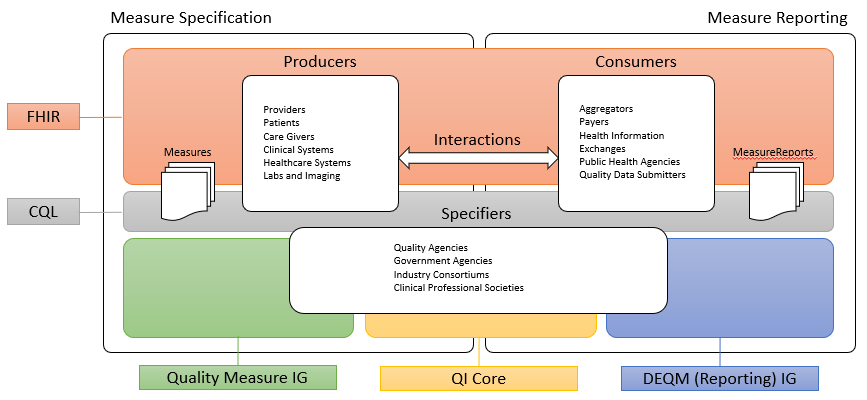
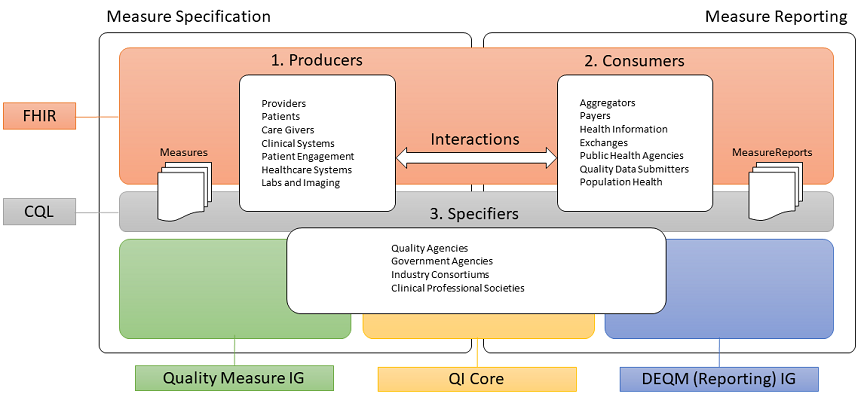
GF#21067, GF#21969, GF#20960, GF#21985, GF#21982 changes to common background section

diff --git a/source/pages/_includes/quality-measurement-standards-landscape.html b/source/pages/_includes/quality-measurement-standards-landscape.html
@@ -1,0 +1,142 @@
+<!--  source/pages/_includes/quality-measurement-standards-landscape.html -->
+
+<h3>Quality Measurement Standards Landscape</h3>
+
+<p>This implementation guide is part of a larger FHIR-based quality improvement
+and quality measurement standards landscape, depicted in the following
+diagram:</p>
+
+<div>
+<img src="assets/images/quality-measurement-standards-landscape.png"
+alt="Quality Measurement Standards Landscape" class="img-responsive img-rounded center-block"/>
+<p>Figure 2: The Quality Measurement Standards Landscape Diagram</p>
+</div>
+
+<p>The left side of the quality measurement standards landscape diagram depicts
+the activities and standards associated with measure specification, while the
+right side depicts measure reporting. Stakeholders and the roles they play are
+represented by the three rounded rectangles in the foreground. Note that the
+lists are representative of typical stakeholders, but that a single stakeholder
+may play any or all of the roles in this diagram. For example, an institution
+specifying its own measures for internal use would be the Producer, Consumer,
+and Specifier.</p>
+
+<p><b>Measure specification</b> involves the end product of the measure
+development process, a precisely specified, valid, reliable, and clinically
+significant measure specification to support accurate data representation and
+capture of quality measures. Clinical quality measures (CQMs) are tools that
+help measure and track the quality of health care services that eligible
+clinicians (ECs), eligible hospitals (EHs), and critical access hospitals (CAHs)
+provide. Measuring and reporting CQMs helps to ensure that our health care
+system is delivering effective, safe, efficient, patient-centered, equitable,
+and timely care. CQMs measure many aspects of patient care, including patient
+and family engagement, patient safety, care coordination, public health,
+population health management, efficient use of healthcare resources, and
+clinical process and effectiveness. For more information on the basics of
+Clinical Quality Measures, see <a
+href="https://www.cms.gov/Regulations-and-Guidance/Legislation/EHRIncentivePrograms/ClinicalQualityMeasures.html">Clinical
+Quality Measures Basics</a>. Before Electronic Health Record (EHR) systems,
+chart-abstracted CQMs were predominant. Modern EHR systems enable electronic
+CQMs, or eCQMs.</p>
+
+<p><b>Measure reporting</b> involves the data collection and aggregation,
+calculation and analytics, and ultimately reporting of quality measures. Measure
+reporting may be accomplished in different ways at various levels of the
+healthcare delivery system, from individual providers attesting to specific
+quality measures as part of federally-regulated healthcare quality initiatives,
+to provider organizations reporting to healthcare plans as part of payer quality
+improvement activities, to institutions reporting on the quality of their own
+healthcare delivery.</p>
+
+<p>Stakeholders in the quality space, represented by the three rounded
+rectangles in the foreground of the above diagram, fall into three broad
+categories:</p>
+
+<p><b>Data Producers</b> in the diagram represent the various stakeholders
+involved in the de novo creation of healthcare data. Date Producers can include
+providers and provider systems; patients, care teams, caregivers, and patient
+engagement systems; and other related clinical systems such as laboratory,
+clinic, and hospital information systems that are primary producers of patient
+healthcare information.</p>
+
+<p><b>Data Consumers</b> in the diagram represent the various stakeholders
+involved in the consumption and use of healthcare data. Data Consumers can
+include data routers and aggregators, payers, health information exchanges and
+health integrated networks, as well as public health and other
+healthcare-related agencies.</p>
+
+<p><b>Specifiers</b> in the diagram represents the various stakeholders involved
+in the specification of quality measures for use in healthcare quality
+measurement and reporting. Specifiers can include quality agencies, public
+health, and other healthcare-related agencies, industry consortiums concerned
+with improving care quality, and clinical professional societies. Specifiers may
+also be institutions and clinics using the quality measurement standards to
+specify quality measures for use in their own environments and quality
+improvement initiatives.</p>
+
+<p>The shaded areas underlying the stakeholders depict the various standards
+involved (see <a
+href="https://confluence.hl7.org/display/CQIWC/Clinical+Quality+Framework">Clinical
+Quality Framework</a> for more information):</p>
+
+<h4>Fast Healthcare Interoperability Resources (FHIR)</h4>
+
+<p>Fast Healthcare Interoperability Resources, or FHIR, is an HL7 platform
+specification for healthcare that supports exchange of healthcare information
+between systems. FHIR is universally applicable, meaning that it can be used in
+a broad variety of implementation environments. The platform provides layers of
+implementation that support foundational protocols; base implementation
+functionality such as conformance and terminology; administrative functionality
+to represent patients, care teams, locations, and organizations; healthcare
+processes including clinical and diagnostic information, as well as medication,
+workflow, and financial; and finally, a clinical reasoning layer that provides
+support for the representation of knowledge and reasoning about healthcare.</p>
+
+<p>The quality measurement standards landscape makes use of all these layers of
+FHIR: the foundational and implementation layers to define interactions and
+profiles; the administrative and process layers to represent the data of
+interest for quality measurement; and the clinical reasoning layer to specify
+and support evaluation and reporting of quality measures.</p>
+
+<h4>Clinical Quality Language (CQL)</h4>
+
+<p>Clinical Quality Language, or CQL, is an HL7 cross-paradigm specification
+that defines a high-level, domain-specific language focused on clinical quality
+and targeted for use by measure and decision support artifact authors. In
+addition, the specification describes a machine-readable canonical
+representation called Expression Logical Model (ELM) targeted at implementations
+and designed to facilitate sharing and evaluation of clinical knowledge.</p>
+
+<p>This ability to render clinical knowledge in a high-level human-readable form
+as well as an intermediate-level, platform-independent machine-readable form
+makes CQL an ideal mechanism for specifying the criteria involved in quality
+measures.</p>
+
+<h4>FHIR Quality Measure Implementation Guide</h4>
+
+<p>The FHIR Quality Measure Implementation Guide (this IG) defines conformance
+profiles and guidance focused on the specification of quality measures using the
+FHIR Measure and Library resources. The IG does not standardize the content of
+any particular measure, rather it defines the standard approach to the
+representation of that content so that quality measure specifiers can define and
+share standardized FHIR-based electronic Clinical Quality Measures (eCQMs).</p>
+
+<h4>Quality Improvement Core Implementation Guide (QI Core)</h4>
+
+<p>The Quality Improvement Core Implementation Guide, or QI-Core, defines a set
+of FHIR profiles with extensions and bindings needed to create interoperable,
+quality-focused applications. Importantly, the scope of QI Core includes both
+quality measurement and decision support to ensure that knowledge expressed can
+be shared across both domains. QI Core is derived from US Core, meaning that
+where possible, QI Core profiles are based on US Core to ensure alignment with
+and support for quality improvement data within healthcare systems in the US
+Realm.</p>
+
+<h4>Data Exchange for Quality Measures (DEQM)</h4>
+
+<p>The Data Exchange for Quality Measures Implementation Guide, or DEQM,
+provides a framework that defines conformance profiles and guidance to enable
+the exchange of quality information and quality measure reporting (e.g. for
+transfering quality information from a health care provider to a payer). The
+DEQM expects to use quality measures specified in accordance with the Quality
+Measure IG and QI Core.</p>

diff --git a/source/pages/_includes/data-model-standards-landscape.html b/source/pages/_includes/data-model-standards-landscape.html
@@ -1,0 +1,90 @@
+<!--  source/pages/_includes/data-model-standards-landscape.html -->
+<h3>Data Model Standards Landscape</h3>
+
+<p>The quality improvement ecosystem covers every aspect of the healthcare
+delivery system, and needs to be able to represent information across that
+entire spectrum. FHIR provides a foundation for representation of this
+information in a universally applicable way. In particular cases, more
+specificity is required to capture the intended meaning of healthcare
+information. As FHIR is more and more broadly adopted, consensus among
+participating stakeholders on the use of particular profiles and patterns
+enables semantic interoperability for more use cases.</p>
+
+<p>Within the US Realm, US Core profiles comprise this base consensus, and
+although it enables a variety of interoperability use cases, the profiles do not
+represent all of the requirements for quality improvement. The QI Core profiles
+are derived from US Core and provide this additional functionality.</p>
+
+<p>There are occasional instances where additional specificity or functionality
+is required explicitly for quality measurement, or a particular component within
+a quality measure. In these cases, additional profiles are defined within the
+DEQM, or by stakeholders such as measure developers or implementers. For
+example, the Medication Reconciliation Post Discharge measure example included
+in this implementation guide references the Healthcare Effectiveness Data and
+Information Set (HEDIS) Implementation Guide, which defines profiles specific to
+that particular HEDIS measure.</p>
+
+<p>The following diagram depicts this data model standards landscape:</p>
+
+<div>
+<img src="assets/images/data-model-standards-landscape.png" alt="Data Model
+Standards Landscape" class="img-responsive img-rounded center-block"/> <p>Figure 3: The Data Model Standards Landscape
+Diagram</p>
+</div>
+
+
+<p>As illustrated, FHIR provides the foundation, and sets of profiles are built
+on top of FHIR that provide more and more focused use cases by constraining
+profiles and extending functionality to cover gaps. While the additional layers
+are necessary to represent specific operations and provide space for agreement
+among relevant stakeholders, the consensus-based standards development process
+is used to suggest changes to the layers below, resulting in an ever-broadening
+umbrella of interoperability.</p>
+
+<p>This layering of profiles balances the relative adoption and implementation
+maturity of FHIR and the data representation requirements of the use cases
+involved, guided by the following principles:</p>
+
+<ol> <li><b>Avoid proliferation of profiles.</b> To the extent possible, make
+use of existing profiles at the lowest level of the stack, only defining a new
+profile if absolutely necessary to express a requirement for a particular use
+case that cannot be represented by an existing one.</li> <li><b>Share profiles
+across measures.</b> There should not be profiles specific to any particular
+measure. Instead, QI Core provides a layer for the expression of quality
+improvement requirements across measures and decision support artifacts.</li>
+<li><b>No terminology-narrowing-only profiles.</b> Profiles should not be used
+to specify only terminology narrowing constraints. The FHIR Clinical Reasoning
+module and CQL enable the representation of data requirements for quality
+measures and decision support artifacts.</li> <li><b>Promote data-related
+profiles.</b> When it becomes necessary to define a data-related profile at the
+measurement-specific level (in DEQM or HEDIS for example), steps should be taken
+to promote that profile to the broadest consensus group possible.</li> </ol>
+
+<h3>FHIR Version Support</h3>
+
+<p>There are three broadly used and fully published versions of the FHIR
+specification:</p>
+
+<ul> <li><b>FHIR DSTU2</b> - This version has broad support among US-based
+vendors as it is the basis for the Argonaut profiles. Most major vendors today
+support some subset of this version of FHIR.</li> <li><b>FHIR STU3</b> - This is
+the version that US Core, QI Core, and many other implementation guides are
+based on. There is broad vendor support for this version.</li> <li><b>FHIR
+R4</b> - This is the first normative release of FHIR, including several of the
+foundational, conformance, and administrative resources going normative.</li>
+</ul>
+
+<p>The implementation guides in this landscape are currently focused on FHIR
+STU3, with the plan to produce R4 versions once the US Core and QI Core profiles
+have been updated to R4.</p>
+
+<div class="stu-note">
+<p>In addition to <em>what</em> data is reported, use
+cases frequently require the communication of <em>when</em>, <em>where</em> and
+<em>how</em> to report. See the <a
+href="http://hl7.org/fhir/us/ecr/2018Sep/design-considerations.html#fhir-design-considerations">eCR
+implementation guide</a> for a more complete discussion of these design
+considerations. We are actively seeking feedback from implementers how this type
+of information is currently communicated in quality reporting scenarios and when
+it would be useful to do so electronically.</p>
+</div>

diff --git a/source/pages/_includes/quality-improvement-ecosystem.html b/source/pages/_includes/quality-improvement-ecosystem.html
@@ -1,0 +1,46 @@
+<!--  source/pages/_includes/quality-improvement-ecosystem.html -->
+<h3>Quality Improvement Ecosystem</h3>
+
+<p>
+As shown in step 1 in the diagram below, the Quality Improvement Ecosystem
+begins with information, preferably evidence-based from research, public health
+surveillance, and data mining and other analyses performed by third parties such
+as payers. Such information indicates existing status and knowledge about a
+given clinical topic. In step 2, stakeholders, such as professional societies,
+public health and governmental bodies, and healthcare insurers have various
+methods for publishing such information to assure awareness among consumers,
+healthcare practitioners, and healthcare organizations about what is known and
+suggested methods for managing the clinical topic. Ideally, suggested management
+efforts are captured and documented in guidelines based on collaboration among
+clinical subject matter experts, terminologists, informaticists, clinicians and
+consumers.  In step 3, these clinical guidelines are translated into clinical
+decision support (CDS) artifacts to incorporate valuable clinical
+recommendations and actions directly within clinical workflow. To adequately
+impact clinical care for clinicians and patients requires local implementation
+activities as shown in Step 4. Ideally, the clinical guidelines and CDS include
+methods for evaluating what successful implementation means, i.e., whether the
+clinical care ultimately provided included processes that addressed the intent
+of the guideline and if it achieved the desired outcomes. In step 5, to close
+the loop and enable continuous improvement, the results of such measurement
+analytics must be reported for aggregate review. Step 6, "Reporting" serves the
+purpose of evaluating clinical performance and outcomes for healthcare
+organizations, for public health and for payers.
+</p>
+
+<div>
+<img src="assets/images/quality-improvement-ecosystem.png" alt="Quality
+Improvement Ecosystem" class="img-responsive img-rounded
+center-block"/>
+<p>Figure 1: The Quality Improvement Ecosystem Diagram</p>
+</div>
+
+<blockquote> <p>
+Stakeholders such as public health have ongoing needs for
+quality improvement at the point of care. Every effort should be made to
+establish a capable distributed rule processing environment in FHIR. For
+additional information about idealized processes for moving evidence and
+information from guidelines to CDS and measurement, refer to an effort by the
+Centers for Disease Control and Prevention (CDC) called <a
+href="https://www.cdc.gov/ddphss/clinical-guidelines/index.html">Adapting
+Clinical Guidelines for the Digital Age</a>.
+</p> </blockquote>

diff --git a/source/pages/index.md b/source/pages/index.md
@@ -59,90 +59,15 @@ This Guide is divided into several pages which are listed at the top of each pag
 
 ## Background
 
-### Clinical Quality Measures Ecosystem and the Data Exchange for Quality Measures Implementation Guide
-{:.no_toc}
+<!-- Quality Improvement Ecosystem -->
+{% include quality-improvement-ecosystem.html %}
 
-The Data Exchange For Quality Measures Implementation Guide fits into the clinical quality measures ecosystem at the interface between the Measure Reporters and User as illustrated in the figure[^2] below with the red oval:
+<!-- Quality Measurement Standards Landscape -->
+{% include quality-measurement-standards-landscape.html %}
 
+<!-- Data Model Standards Landscape -->
+{% include data-model-standards-landscape.html %}
 
-{% include img-portrait.html caption = "Figure 1-1 Quality Improvement Ecosystem" img="quality-improvement-ecosystem.png" %}
-
-The Quality Improvement Ecosystem begins with information, preferably evidence-based from research public health surveillance, and data mining and other analyses performed by third parties such as payers. Such information indicates existing status and knowledge about a given clinical topic. Stakeholders such as professional societies, public health and governmental bodies and healthcare insurers have various methods for publishing such information to assure awareness among consumers, healthcare practitioners and healthcare organizations about what is known and suggested methods for managing the clinical topic. Ideally, suggested management efforts are captured and documented in guidelines based on collaboration among clinical subject matter experts, terminologists, informaticists, clinicians and consumers. Subsequent steps translate these clinical guidelines into clinical decision support (CDS) artifacts to incorporate valuable clinical recommendations and actions directly within clinical workflow. To adequately impact clinical care for clinicians and patients requires local implementation activities. Ideally, the clinical guidelines and CDS include methods for evaluating what successful implementation means, i.e., whether the clinical care ultimately provided included processes that addressed the intent of the guideline and if it achieved the desired outcomes.  To close the loop and enable continuous improvement the results of such measurement analytics must be reported for aggregate review. Reporting also serves the purpose of evaluating clinical performance and outcomes for healthcare organizations, for public health and for payers. For additional information about idealized processes for moving evidence and information from guidelines to CDS and measurement, refer to an effort by the Centers for Disease Control and Prevention (CDC) called Adapting Clinical Guidelines for the Digital Age.[^4]
-
-### Quality Measurement Standards Landscape
-
-This implementation guide is part of a larger FHIR-based quality improvement and quality measurement standards landscape, depicted in the following diagram:
-
-{% include img-portrait.html caption = "Figure 1-2 Quality Measurement Standards Landscape" img="quality-measurement-standards-landscape.png" %}
-
-The left side of the quality measurement standards landscape diagram depicts the activities and standards associated with measure specification, while the right side depicts measure reporting. Stakeholders and the roles they play are represented by the three rounded rectangles in the foreground. Note that the lists are representative of typical stakeholders, but that a single stakeholder may play any or all of the roles in this diagram. For example, an institution specifying its own measures for internal use would be the Producer, Consumer, and Specifier.
-
-<b>Measure specification</b> involves the end product of the measure development process, a precisely specified, valid, reliable, and clinically significant measure specification to support accurate data representation and capture of quality measures. Clinical quality measures (CQMs) are tools that help measure and track the quality of health care services that eligible clinicians (ECs), eligible hospitals (EHs), and critical access hospitals (CAHs) provide. Measuring and reporting CQMs helps to ensure that our health care system is delivering effective, safe, efficient, patient-centered, equitable, and timely care. CQMs measure many aspects of patient care, including patient and family engagement, patient safety, care coordination, public health, population health management, efficient use of healthcare resources, and clinical process and effectiveness.[^1] Before Electronic Health Record (EHR) systems, chart-abstracted CQMs were predominant. Modern EHR systems enable electronic CQMs, or eCQMs.
-
-<b>Measure reporting</b> involves the data collection and aggregation, calculation and analytics, and ultimately reporting of quality measures. Measure reporting may be accomplished in different ways at various levels of the healthcare delivery system, from individual providers attesting to specific quality measures as part of federally-regulated healthcare quality initiatives, to provider organizations reporting to healthcare plans as part of payer quality improvement activities, to institutions reporting on the quality of their own healthcare delivery.
-
-Stakeholders in the quality space, represented by the three rounded rectangles in the foreground of the above diagram, fall into three broad categories:
-
-<b>Producers</b> in the diagram represent the various stakeholders involved in the creation of healthcare data. Producers can include providers and provider systems; patients, care teams, caregivers, and patient engagement systems; and other related clinical systems such as laboratory, clinic, and hospital information systems that are primary producers of patient healthcare information.
-
-<b>Consumers</b> in the diagram represent the various stakeholders involved in the consumption and use of healthcare data. Consumers can include data routers and aggregators, payers, health information exchanges and health integrated networks, as well as public health and other healthcare-related agencies.
-
-<b>Specifiers</b> in the diagram represents the various stakeholders involved in the specification of quality measures for use in healthcare quality measurement and reporting. Specifiers can include quality agencies, public health, and other healthcare-related agencies, industry consortiums concerned with improving care quality, and clinical professional societies. Specifiers may also be institutions and clinics using the quality measurement standards to specify quality measures for use in their own environments and quality improvement initiatives.
-
-The shaded areas underlying the stakeholders depict the various standards involved:
-
-#### Fast Healthcare Interoperability Resources (FHIR)
-
-Fast Healthcare Interoperability Resources, or FHIR, is an HL7 platform specification for healthcare that supports exchange of healthcare information between systems. FHIR is universally applicable, meaning that it can be used in a broad variety of implementation environments. The platform provides layers of implementation that support foundational protocols; base implementation functionality such as conformance and terminology; administrative functionality to represent patients, care teams, locations, and organizations; healthcare processes including clinical and diagnostic information, as well as medication, workflow, and financial; and finally, a clinical reasoning layer that provides support for the representation of knowledge and reasoning about healthcare.
-
-The quality measurement standards landscape makes use of all these layers of FHIR: the foundational and implementation layers to define interactions and profiles; the administrative and process layers to represent the data of interest for quality measurement; and the clinical reasoning layer to specify and support evaluation and reporting of quality measures.
-
-#### Clinical Quality Language (CQL)
-
-Clinical Quality Language, or CQL, is an HL7 cross-paradigm specification that defines a high-level, domain-specific language focused on clinical quality and targeted for use by measure and decision support artifact authors. In addition, the specification describes a machine-readable canonical representation called Expression Logical Model (ELM) targeted at implementations and designed to facilitate sharing and evaluation of clinical knowledge.
-
-This ability to render clinical knowledge in a high-level human-readable form as well as an intermediate-level, platform-independent machine-readable form makes CQL an ideal mechanism for specifying the criteria involved in quality measures.
-
-#### FHIR Quality Measure Implementation Guide
-
-The FHIR Quality Measure Implementation Guide defines conformance profiles and guidance focused on the specification of quality measures using the FHIR Measure and Library resources. The IG does not standardize the content of any particular measure, rather it defines the standard approach to the representation of that content so that quality measure specifiers can define and share standardized FHIR-based electronic Clinical Quality Measures (eCQMs).
-
-#### Quality Improvement Core Implementation Guide (QI Core)
-
-The Quality Improvement Core Implementation Guide, or QI-Core, defines a set of FHIR profiles with extensions and bindings needed to create interoperable, quality-focused applications. Importantly, the scope of QI Core includes both quality measurement and decision support to ensure that knowledge expressed can be shared across both domains. QI Core is derived from US Core, meaning that where possible, QI Core profiles are based on US Core to ensure alignment with and support for quality improvement data within healthcare systems in the US Realm.
-
-#### Data Exchange for Quality Measures (DEQM)
-
-The Data Exchange for Quality Measures Implementation Guide, or DEQM, provides a framework that defines conformance profiles and guidance to enable the exchange of quality information and quality measure reporting. The DEQM requires the use of quality measures specified in accordance with the Quality Measure IG and QI Core.
-
-### Data Model Standards Landscape
-
-The quality improvement ecosystem covers every aspect of the healthcare delivery system, and needs to be able to represent information across that entire spectrum. FHIR provides a foundation for representation of this information in a universally applicable way. In particular cases, more specificity is required to capture the intended meaning of healthcare information. As FHIR is more and more broadly adopted, consensus among participating stakeholders on the use of particular profiles and patterns enables semantic interoperability for more use cases.
-
-Within the US Realm, US Core profiles comprise this base consensus, and although it enables a variety of interoperability use cases, the profiles do not represent all of the requirements for quality improvement. The QI Core profiles are derived from US Core and provide this additional functionality.
-
-There are occasional instances where additional specificity or functionality is required explicitly for quality measurement, or a particular component within a quality measure. In these cases, additional profiles are defined within the DEQM, or by stakeholders such as measure developers or implementers. For example, the Medication Reconciliation Post Discharge measure example included in this implementation guide references the HEDIS Implementation Guide, which defines profiles specific to that particular HEDIS measure.
-
-The following diagram depicts this data model standards landscape:
-
-{% include img-portrait.html caption = "Figure 1-3 Data Model Standards Landscape" img="data-model-standards-landscape.png" %}
-
-As illustrated, FHIR provides the foundation, and sets of profiles are built on top of FHIR that provide more and more focused use cases by constraining profiles and extending functionality to cover gaps. While the additional layers are necessary to represent specific operations and provide space for agreement among relevant stakeholders, the consensus-based standards development process is used to suggest changes to the layers below, resulting in an ever-broadening umbrella of interoperability.
-
-This layering of profiles balances the relative adoption and implementation maturity of FHIR and the data representation requirements of the use cases involved, guided by the following principles:
-
-* <b>Avoid proliferation of profiles.</b> To the extent possible, make use of existing profiles at the lowest level of the stack, only defining a new profile if absolutely necessary to express a requirement for a particular use case that cannot be represented by an existing one.
-* <b>Share profiles across measures.</b> There should not be profiles specific to any particular measure. Instead, QI Core provides a layer for the expression of quality improvement requirements across measures and decision support artifacts.
-* <b>No terminology-narrowing-only profiles.</b> Profiles should not be used to specify only terminology narrowing constraints. The FHIR Clinical Reasoning module and CQL enable the representation of data requirements for quality measures and decision support artifacts.
-* <b>Promote data-related profiles.</b> When it becomes necessary to define a data-related profile at the measurement-specific level (in DEQM or HEDIS for example), steps should be taken to promote that profile to the broadest consensus group possible.
-
-#### FHIR Version Support
-
-* <b>FHIR DSTU2</b> - This version has broad support among US-based vendors as it is the basis for the Argonaut profiles. Most major vendors today support some subset of this version of FHIR.
-* <b>FHIR STU3</b> - This is the version that US Core, QI Core, and many other implementation guides are based on. There is broad vendor support for this version.
-* <b>FHIR R4</b> - This is the first normative release of FHIR, including several of the foundational, conformance, and administrative resources going normative.
-
-The implementation guides in this landscape are currently focused on FHIR STU3, with the plan to produce R4 versions once the US Core and QI Core profiles have been updated to R4.
 
 ## Quality Reporting Scenarios
 

diff --git a/source/pages/_includes/link-list.md b/source/pages/_includes/link-list.md
@@ -134,5 +134,5 @@
 [Venous Thromboembolism Prophylaxis (VTE-1)]: vte1.html
 [Colorectal Cancer Screening (PDQ®)–Health Professional Version]: https://www.cancer.gov/types/colorectal/hp/colorectal-screening-pdq
 [Colorectal Cancer Screening (PDQ®)-Patient Version]: https://www.cancer.gov/types/colorectal/patient/colorectal-screening-pdq
-[Bundles]: {{site.data.fhir.path}}/bundle.html
+[Bundles]: {{site.data.fhir.path}}bundle.html
 [following rules]: {{site.data.fhir.path}}references.html#contained
